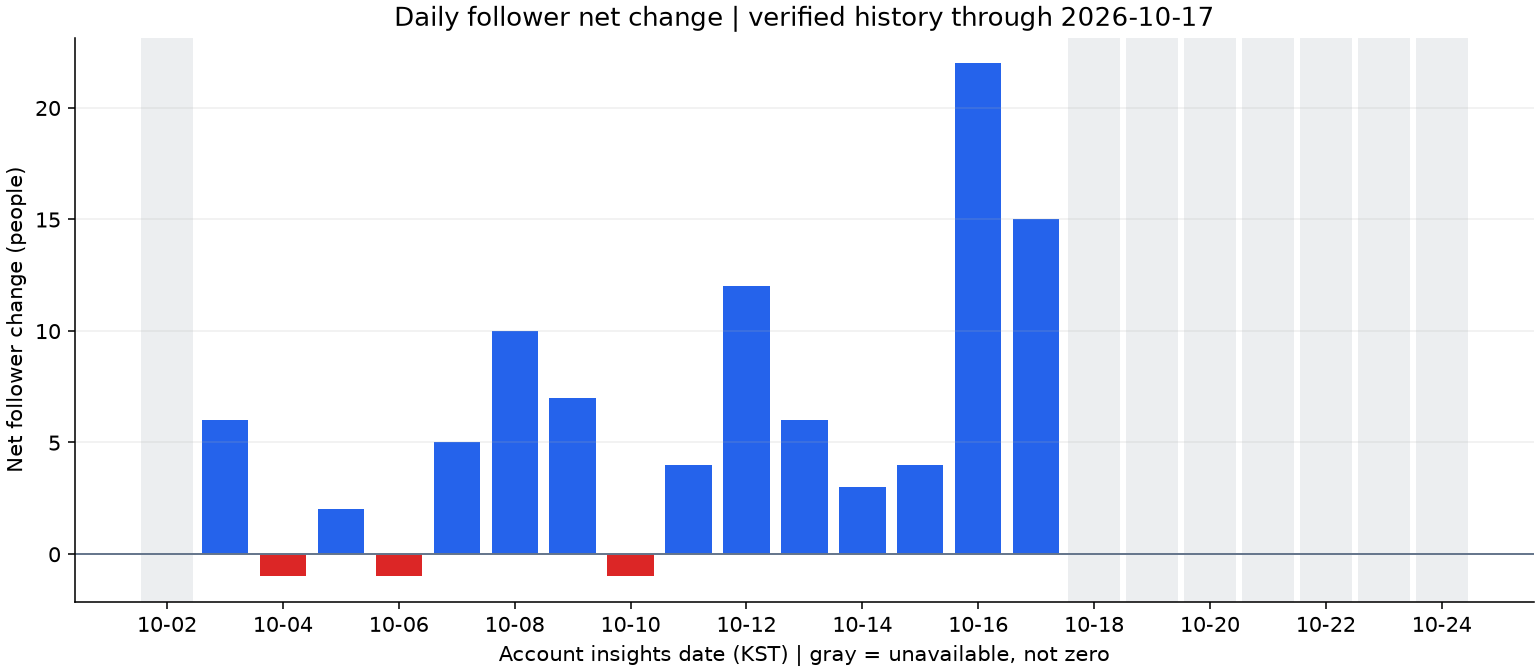
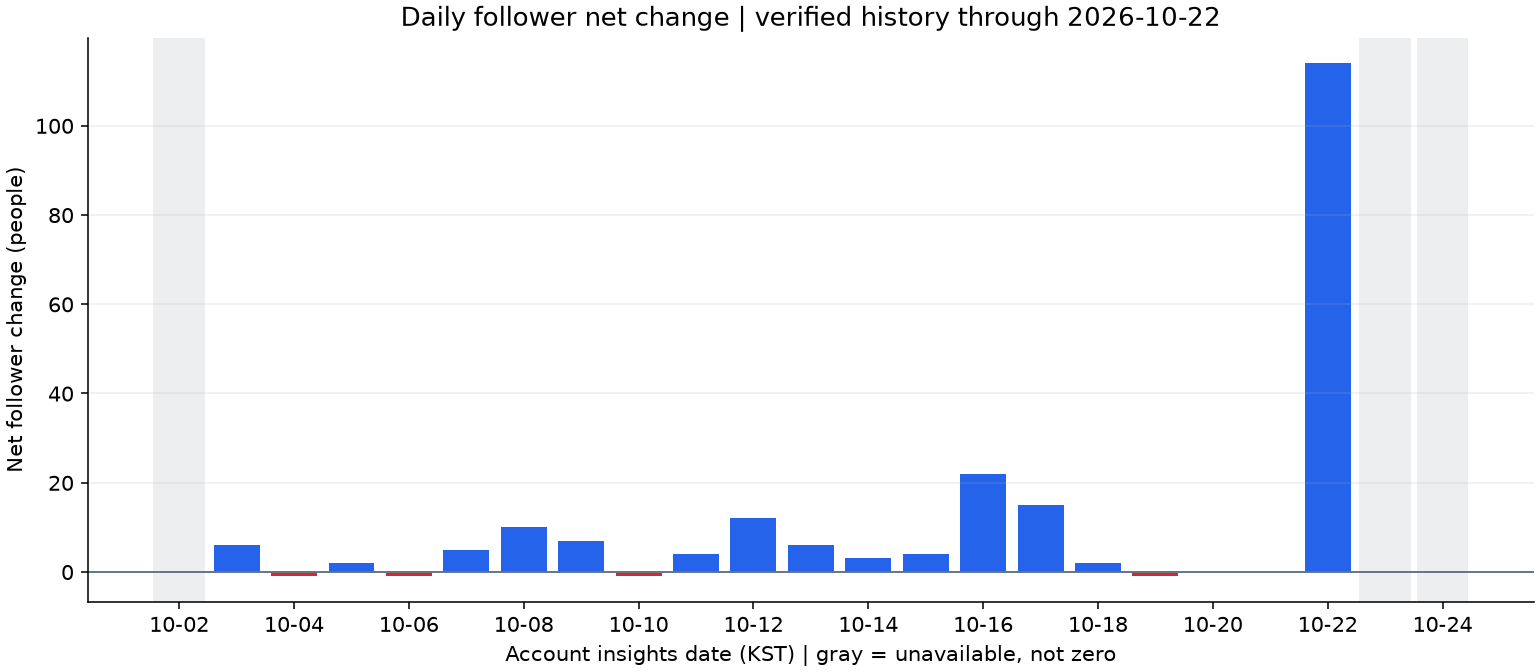
Extend verified follower history through October 22

diff --git a/analysis.py b/analysis.py
@@ -222,7 +222,7 @@ KST의 달력 날짜를 집계 단위로 사용했다. {len(dates)}개 달력일
 ### 5.2 날짜별 팔로워 순증감
 ![날짜별 팔로워 순증감. 회색은 미확인 구간](images/02_follower_net_change.png)
 
-확인된 총 팔로워 수는 {follower_start:%m월 %d일} {first_followers}명에서 {follower_end:%m월 %d일} {last_followers}명으로, 두 시점 사이 {last_followers-first_followers:+d}명 변했다. 계산 가능한 일일 순증감은 {len(nonempty)}개다. 최대 순증가는 {max_day}의 {max_change}다. 첫 날짜는 전일 기준값이 없어 증감을 계산하지 않는다. {follower_end:%m월 %d일} 이후의 회색 구간은 미수집이며 0명을 뜻하지 않는다. 팔로워 이력은 별도 화면에서 확인한 값이며 게시물의 팔로우 유입 수를 합산한 값이 아니다.
+확인된 총 팔로워 수는 {follower_start:%m월 %d일} {first_followers}명에서 {follower_end:%m월 %d일} {last_followers}명으로, 두 시점 사이 {last_followers-first_followers:+d}명 변했다. 계산 가능한 일일 순증감은 {len(nonempty)}개다. 최대 순증가는 {max_day}의 {max_change}이다. 첫 날짜는 전일 기준값이 없어 증감을 계산하지 않는다. {follower_end:%m월 %d일} 이후의 회색 구간은 미수집이며 0명을 뜻하지 않는다. 팔로워 이력은 별도 화면에서 확인한 값이며 게시물의 팔로우 유입 수를 합산한 값이 아니다.
 
 ### 5.3 조회수 집중도
 ![상위 게시물 조회수 집중도](images/03_view_concentration.png)
@@ -242,7 +242,7 @@ KST의 달력 날짜를 집계 단위로 사용했다. {len(dates)}개 달력일
 
 1. **조회수가 소수 게시물에 집중된다.** 관찰: 그래프 3에서 상위 5개가 전체 조회수의 {cumulative.iloc[min(4,len(clean)-1)]:.1f}%다. 해석: 일부 확산 사례가 전체 평균을 끌어올릴 가능성이 크다. 행동: 성과 기준은 중앙값과 집중도를 함께 보고, 상위 사례의 본문·주제를 별도로 검토한다.
 2. **콘텐츠 유형의 조회수 중앙값에 차이가 있다.** 관찰: 그래프 4와 표의 유형별 중앙값·표본 수는 {media_observation}다. 해석: 유형 차이 외에 주제와 게시 경과 시간의 영향일 수 있다. 행동: 같은 주제·비슷한 관측 시간을 맞춘 후 유형 차이를 재검토한다.
-3. **확인된 기간에 계정 팔로워 수가 증가했다.** 관찰: 그래프 2에서 {follower_start:%m월 %d일} {first_followers}명에서 {follower_end:%m월 %d일} {last_followers}명으로 {last_followers-first_followers:+d}명 변했고, 최대 일일 순증가는 {max_day}의 {max_change}다. 해석: 게시물 확산이나 계정 노출 등이 가능한 요인이지만 이 자료만으로 원인을 특정할 수 없다. 행동: 증가가 큰 날짜의 게시물·노출을 공통 관측 기간에서 확인하고, 이후 팔로워 이력을 추가해 비교한다.
+3. **확인된 기간에 계정 팔로워 수가 증가했다.** 관찰: 그래프 2에서 {follower_start:%m월 %d일} {first_followers}명에서 {follower_end:%m월 %d일} {last_followers}명으로 {last_followers-first_followers:+d}명 변했고, 최대 일일 순증가는 {max_day}의 {max_change}이다. 해석: 게시물 확산이나 계정 노출 등이 가능한 요인이지만 이 자료만으로 원인을 특정할 수 없다. 행동: 증가가 큰 날짜의 게시물·노출을 공통 관측 기간에서 확인하고, 이후 팔로워 이력을 추가해 비교한다.
 4. **업로드 활동이 날짜별로 고르지 않다.** 관찰: 그래프 1에서 {len(dates)}개 달력일 중 {int(daily.uploads.gt(0).sum())}일에 직접 업로드가 있으며, 최대는 하루 {int(daily.uploads.max())}개다. 해석: 활동량 차이는 계정 노출 기회의 차이와 연결될 수 있으나 성과의 인과 효과를 뜻하지 않는다. 행동: 업로드 수를 기록하면서 팔로워 이력이 있는 날짜에 한해 후속 비교한다.
 
 ## 7. 결론·한계 및 업데이트 계획

diff --git a/README.md b/README.md
@@ -1,6 +1,6 @@
 # Threads Insight M1-1
 
-2026년 10월 24일 Threads API로 다시 수집한 게시물 105개 중 유효 인사이트 103개를 분석했다. **필수 유효 표본 100개 요건을 충족했다.** 기존 79개에서 신규 유효 게시물 24개를 추가했다. 그래프는 날짜별 업로드 수·팔로워 순증감·조회수 집중도·콘텐츠 유형별 비교로 구성했다. 팔로워 이력은 별도 화면 수집 자료로 10월 17일까지 확인됐다. 결과는 [REPORT.md](REPORT.md)를 참고한다.
+2026년 10월 24일 Threads API로 다시 수집한 게시물 105개 중 유효 인사이트 103개를 분석했다. **필수 유효 표본 100개 요건을 충족했다.** 기존 79개에서 신규 유효 게시물 24개를 추가했다. 그래프는 날짜별 업로드 수·팔로워 순증감·조회수 집중도·콘텐츠 유형별 비교로 구성했다. 팔로워 이력은 별도 화면 수집 자료로 10월 22일까지 확인됐다. 결과는 [REPORT.md](REPORT.md)를 참고한다.
 
 ## 실행
 
@@ -30,14 +30,14 @@ python analysis.py --input data/threads_insights.csv --baseline path/to/previous
 
 ## 날짜별 팔로워 자료
 
-출처는 본인 계정의 Threads 인사이트 화면이다. 게시물 성과 API의 `likes`나 게시물별 팔로우 유입을 대신 사용하지 않는다. 날짜별 총 팔로워 수의 정확한 값을 화면 툴팁으로 확인해 저장한 이력을 사용한다. 현재 입력은 2026-10-19에 확인한 2026-10-02~2026-10-17의 16개 총수 기록이다. 전일 총수가 있어야 차이를 계산하므로 일일 순증감은 10월 3~17일의 15개다. 이후 날짜는 미수집이며 회색으로 표시한다.
+출처는 본인 계정의 Threads 인사이트 화면이다. 게시물 성과 API의 `likes`나 게시물별 팔로우 유입을 대신 사용하지 않는다. 날짜별 총 팔로워 수의 정확한 값을 화면 툴팁으로 확인해 저장한 이력을 사용한다. 현재 입력은 2026-10-24에 확인한 2026-10-02~2026-10-22의 21개 총수 기록이다. 전일 총수가 있어야 차이를 계산하므로 일일 순증감은 10월 3~22일의 20개다. 10월 23~24일은 미수집이며 회색으로 표시한다. 현재 프로필의 261명은 시점별 현재값으로, 과거 날짜별 이력에 대입하지 않는다.
 
 팔로워 입력 JSON 구조는 다음과 같다. 아래 `items`는 형식 설명을 위한 빈 배열이며 실제 실행에는 정확한 날짜별 총수 기록이 필요하다.
 
 ```json
 {
   "source": "threads_account_insights_ui",
-  "observed_at": "2026-10-19T10:41:01.728Z",
+  "observed_at": "2026-10-24T05:26:04.668Z",
   "items": []
 }
 ```
